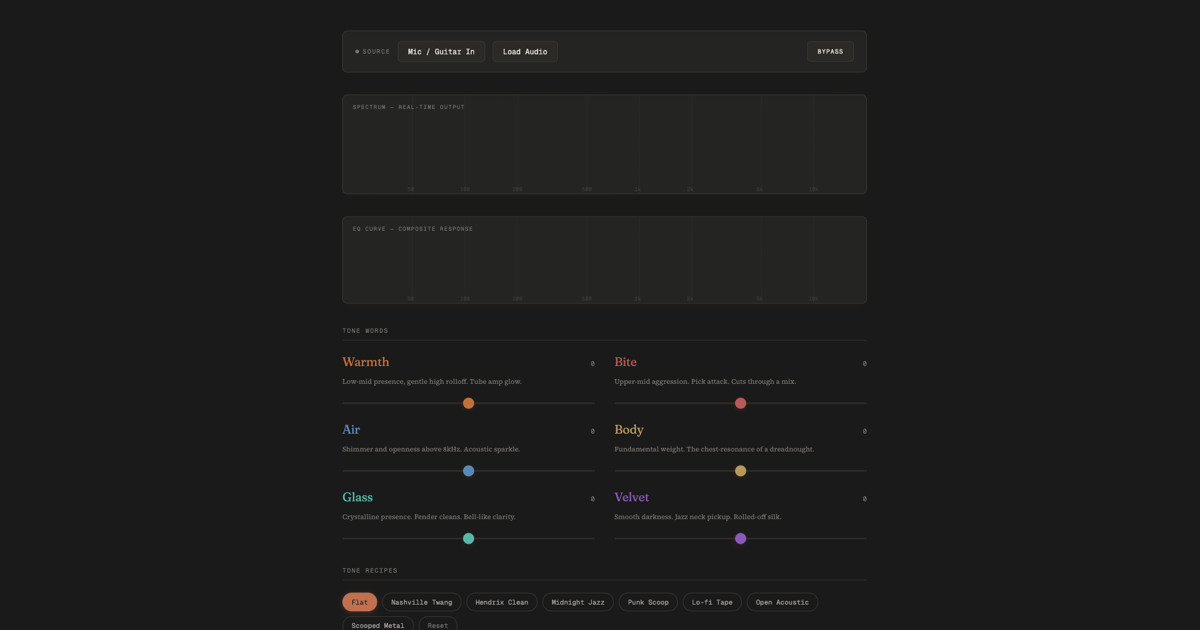
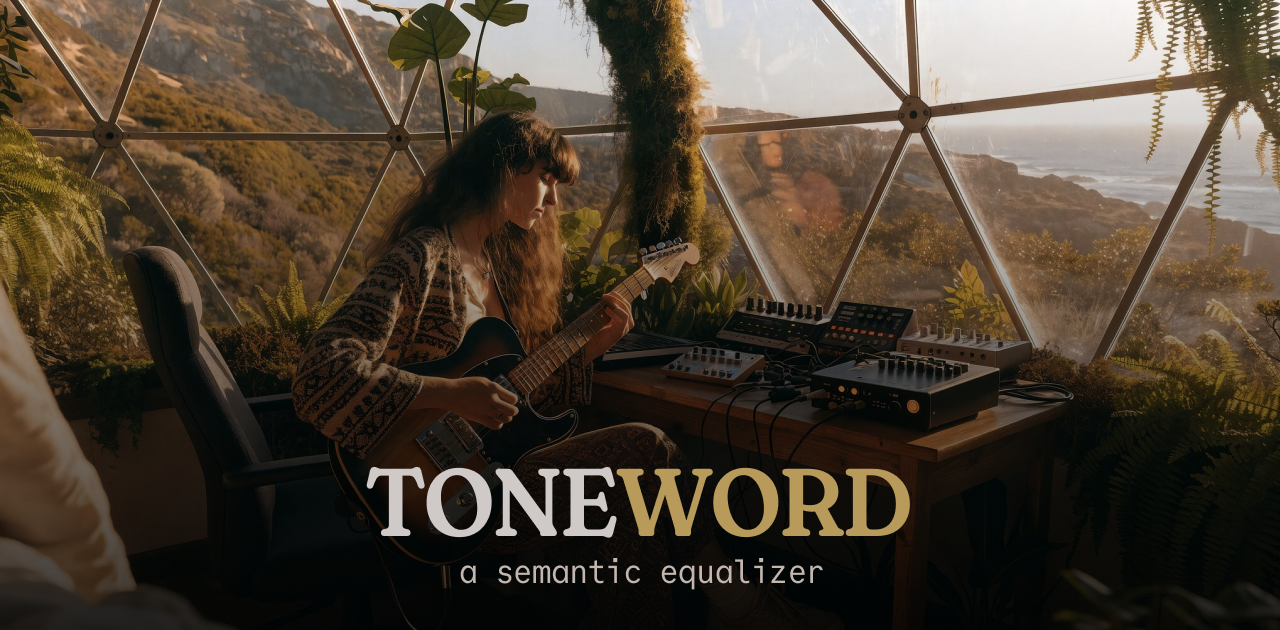
switch to fraunces display + commit mono, fix segmented control and OG image
- drop New Spirit, use Fraunces as sole display font with WONK 1 + SOFT 100
  set via .font-display class instead of inline styles everywhere
- replace Geist Mono with self-hosted Commit Mono (custom Manzanita build)
  with OpenType features cv01/03/04/06/11 and ss01-05
- remove manual opsz settings (browser handles optical sizing automatically)
- fix Google Fonts URL (was requesting invalid wdth axis, breaking load)
- swap sun icon for proper gear icon in source bar
- update OG preview image

diff --git a/web/src/index.css b/web/src/index.css
@@ -1,5 +1,13 @@
 @import "tailwindcss";
 
+/* Commit Mono — custom Manzanita build */
+@font-face {
+  font-family: 'Commit Mono';
+  src: url('/fonts/CommitMono-Variable.woff2') format('woff2');
+  font-weight: 100 900;
+  font-display: swap;
+}
+
 @theme {
   /* Warm dark palette — cabin at night, not cold terminal */
   --color-bg: #1A1A1A;
@@ -23,9 +31,9 @@
   --color-velvet: #8a5ab8;
 
   /* Typography — Whole Earth Catalog meets Laurel Canyon */
-  --font-display: 'New Spirit', 'Fraunces', serif;
+  --font-display: 'Fraunces', serif;
   --font-body: 'Source Serif 4', serif;
-  --font-mono: 'Geist Mono', monospace;
+  --font-mono: 'Commit Mono', monospace;
 }
 
 /* Global base */
@@ -48,6 +56,18 @@ body::before {
   pointer-events: none;
   z-index: 1000;
   mix-blend-mode: multiply;
+}
+
+/* Fraunces variable font — soft wonky display */
+.font-display {
+  font-variation-settings: 'WONK' 1, 'SOFT' 100;
+}
+
+/* Commit Mono — Manzanita custom build OpenType features */
+.font-mono {
+  font-feature-settings:
+    'cv01' 1, 'cv03' 1, 'cv04' 1, 'cv06' 1, 'cv11' 1,
+    'ss01' 1, 'ss02' 1, 'ss03' 1, 'ss04' 1, 'ss05' 1;
 }
 
 /* Reduced motion */

diff --git a/web/src/components/PedalMode/OledDisplay.tsx b/web/src/components/PedalMode/OledDisplay.tsx
@@ -165,13 +165,13 @@ export function OledDisplay({ state, presetName, bypassed, analyserRef, filtersR
       ctx.fillRect(x + barW / 2 - 0.5, barY - 1, 1, barH + 2);
 
       // Label
-      ctx.font = '7px "Geist Mono", monospace';
+      ctx.font = '7px "Commit Mono", monospace';
       ctx.fillStyle = 'rgba(255, 255, 255, 0.35)';
       ctx.textAlign = 'center';
       ctx.fillText(dim.substring(0, 3).toUpperCase(), x + barW / 2, barY + barH + 10);
 
       // Value
-      ctx.font = '8px "Geist Mono", monospace';
+      ctx.font = '8px "Commit Mono", monospace';
       ctx.fillStyle = Math.abs(val) > 0 ? col : 'rgba(255, 255, 255, 0.2)';
       ctx.fillText(val > 0 ? '+' + val : '' + val, x + barW / 2, barY + barH + 20);
     });
@@ -182,7 +182,7 @@ export function OledDisplay({ state, presetName, bypassed, analyserRef, filtersR
     if (bypassed) {
       ctx.fillStyle = 'rgba(0, 0, 0, 0.7)';
       ctx.fillRect(0, 0, w, h);
-      ctx.font = '14px "Geist Mono", monospace';
+      ctx.font = '14px "Commit Mono", monospace';
       ctx.fillStyle = 'rgba(184, 90, 90, 0.8)';
       ctx.textAlign = 'center';
       ctx.fillText('BYPASS', w / 2, h / 2 + 4);

diff --git a/web/src/components/StudioMode/SliderGroup.tsx b/web/src/components/StudioMode/SliderGroup.tsx
@@ -18,10 +18,7 @@ export function SliderGroup({ state, onDimensionChange }: SliderGroupProps) {
             <div className="flex justify-between items-baseline mb-2.5">
               <span
                 className="font-display text-xl tracking-[-0.01em] transition-colors duration-300"
-                style={{
-                  color: DIMENSION_COLORS[dim],
-                  fontVariationSettings: "'WONK' 1, 'opsz' 20",
-                }}
+                style={{ color: DIMENSION_COLORS[dim] }}
               >
                 {dim.charAt(0).toUpperCase() + dim.slice(1)}
               </span>
@@ -29,7 +26,7 @@ export function SliderGroup({ state, onDimensionChange }: SliderGroupProps) {
                 {state[dim] > 0 ? '+' : ''}{state[dim]}
               </span>
             </div>
-            <div className="font-body text-[11px] text-text-dim mb-2.5 leading-relaxed" style={{ fontVariationSettings: "'opsz' 11" }}>
+            <div className="font-body text-[11px] text-text-dim mb-2.5 leading-relaxed">
               {DIMENSION_DESCRIPTIONS[dim]}
             </div>
             <input

diff --git a/web/index.html b/web/index.html
@@ -25,7 +25,7 @@
     <meta name="twitter:image" content="https://toneword.app/og-image.png" />
     <link rel="preconnect" href="https://fonts.googleapis.com" />
     <link rel="preconnect" href="https://fonts.gstatic.com" crossorigin />
-    <link href="https://fonts.googleapis.com/css2?family=Fraunces:ital,opsz,wght@0,9..144,100..900;1,9..144,100..900&family=Source+Serif+4:ital,opsz,wght@0,8..60,200..900;1,8..60,200..900&family=Geist+Mono:wght@100..900&display=swap" rel="stylesheet" />
+    <link href="https://fonts.googleapis.com/css2?family=Fraunces:ital,opsz,wght,SOFT,WONK@0,9..144,100..900,0..100,0..1;1,9..144,100..900,0..100,0..1&family=Source+Serif+4:ital,opsz,wght@0,8..60,200..900;1,8..60,200..900&display=swap" rel="stylesheet" />
   </head>
   <body style="background: #1A1A1A">
     <div id="root"></div>

diff --git a/web/src/components/StudioMode/EQCurve.tsx b/web/src/components/StudioMode/EQCurve.tsx
@@ -14,7 +14,7 @@ const FREQ_LABELS: [number, string][] = [
 ];
 
 function drawFreqGrid(ctx: CanvasRenderingContext2D, w: number, h: number) {
-  ctx.font = '9px "Geist Mono", monospace';
+  ctx.font = '9px "Commit Mono", monospace';
   ctx.fillStyle = 'rgba(120, 117, 111, 0.3)';
   ctx.strokeStyle = 'rgba(120, 117, 111, 0.08)';
   ctx.lineWidth = 1;
@@ -133,7 +133,7 @@ export function EQCurve({ filtersRef, state: _state }: EQCurveProps) {
     ctx.setLineDash([]);
 
     // dB labels
-    ctx.font = '9px "Geist Mono", monospace';
+    ctx.font = '9px "Commit Mono", monospace';
     ctx.fillStyle = 'rgba(120, 117, 111, 0.5)';
     ctx.fillText('+12dB', 4, midY - (h - 40) / 2 + 4);
     ctx.fillText('-12dB', 4, midY + (h - 40) / 2 + 4);

diff --git a/web/src/App.tsx b/web/src/App.tsx
@@ -110,11 +110,10 @@ function App() {
           <header className="mb-12">
             <div
               className="font-display text-[42px] tracking-[-0.02em] leading-[1.1] mb-1.5"
-              style={{ fontVariationSettings: "'WONK' 1, 'opsz' 42" }}
             >
               TONE<span className="italic text-body">WORD</span>
             </div>
-            <div className="font-body text-[13px] tracking-[0.02em] text-text-dim" style={{ fontVariationSettings: "'opsz' 14" }}>
+            <div className="font-body text-[13px] tracking-[0.02em] text-text-dim">
               Semantic EQ — speak your tone into being
             </div>
           </header>

diff --git a/web/src/components/InputSettings.tsx b/web/src/components/InputSettings.tsx
@@ -92,7 +92,7 @@ export function InputSettings({
 
       <div className="fixed top-1/2 left-1/2 -translate-x-1/2 -translate-y-1/2 z-[901] w-[380px] max-w-[90vw] bg-surface border border-border rounded-lg p-6 max-h-[85vh] overflow-y-auto" style={{ boxShadow: '0 8px 32px rgba(0,0,0,0.4)' }}>
         <div className="flex items-center justify-between mb-5">
-          <h2 className="font-display text-lg tracking-tight" style={{ fontVariationSettings: "'WONK' 1" }}>
+          <h2 className="font-display text-lg tracking-tight">
             Settings
           </h2>
           <button

diff --git a/web/src/components/StudioMode/SpectrumAnalyzer.tsx b/web/src/components/StudioMode/SpectrumAnalyzer.tsx
@@ -12,7 +12,7 @@ const FREQ_LABELS: [number, string][] = [
 ];
 
 function drawFreqGrid(ctx: CanvasRenderingContext2D, w: number, h: number) {
-  ctx.font = '9px "Geist Mono", monospace';
+  ctx.font = '9px "Commit Mono", monospace';
   ctx.fillStyle = 'rgba(120, 117, 111, 0.3)';
   ctx.strokeStyle = 'rgba(120, 117, 111, 0.08)';
   ctx.lineWidth = 1;

diff --git a/web/src/components/PedalMode/index.tsx b/web/src/components/PedalMode/index.tsx
@@ -104,7 +104,6 @@ export function PedalMode({
         {/* Brand */}
         <div
           className="font-display text-xl tracking-[-0.01em] text-white/50 mb-0.5 text-center z-[2]"
-          style={{ fontVariationSettings: "'WONK' 1, 'opsz' 20" }}
         >
           TONE<em className="text-body/70 italic">WORD</em>
         </div>
